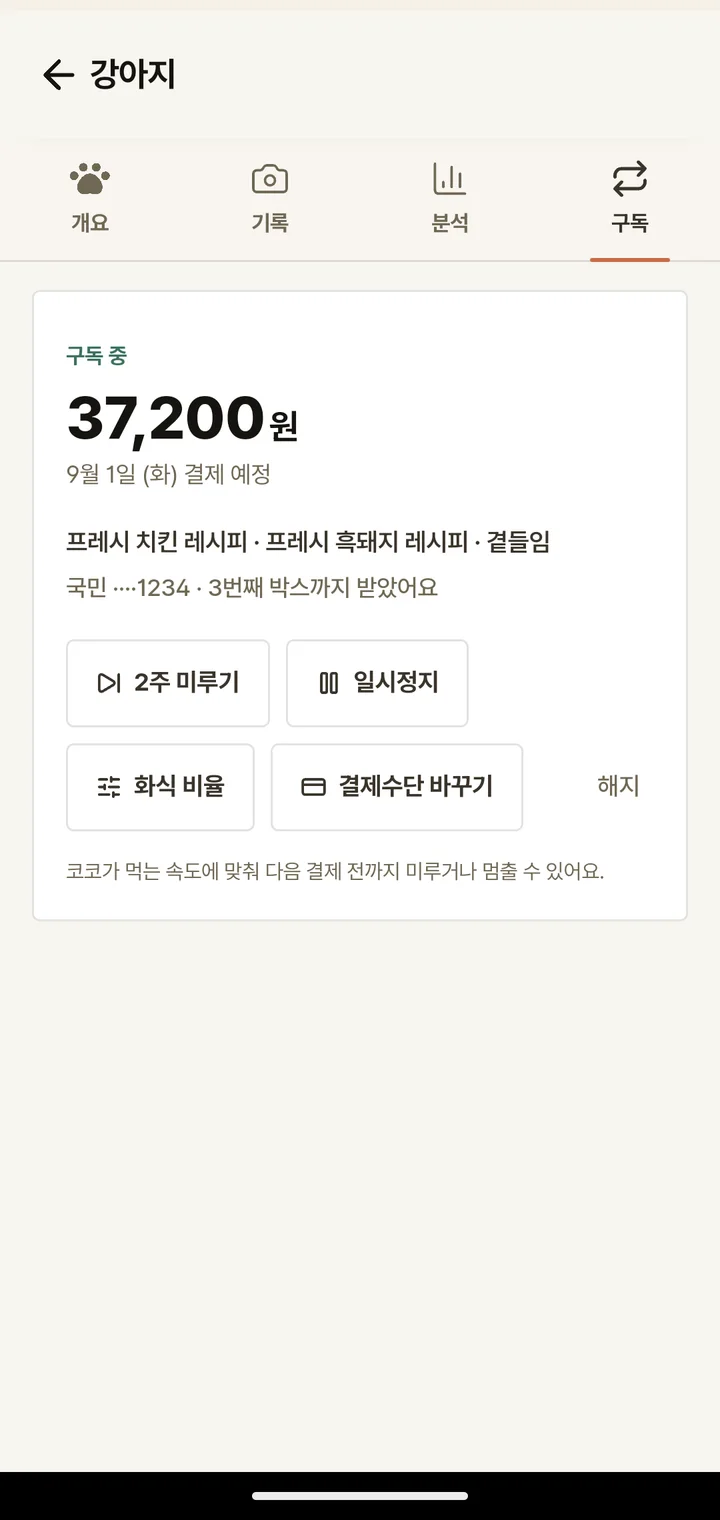
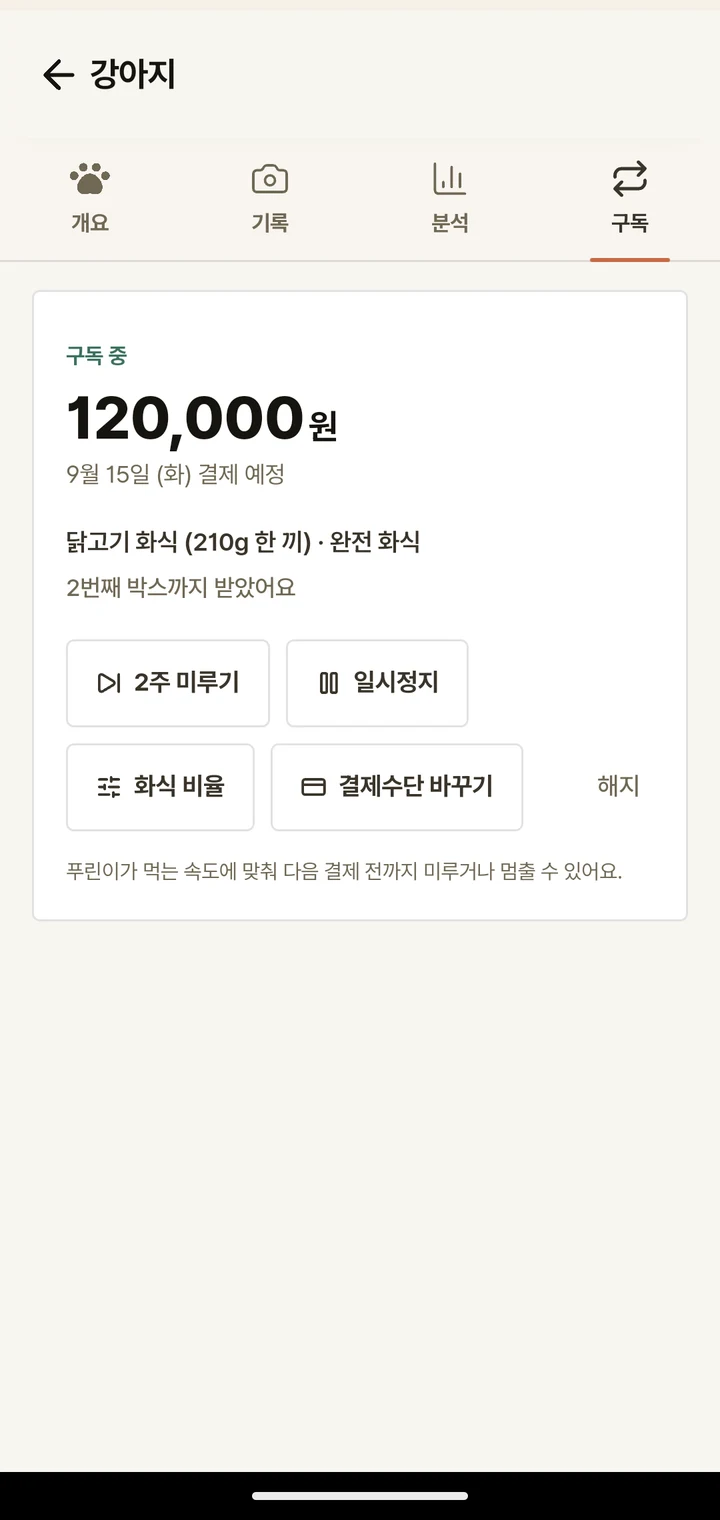
온보딩 자산 재촬영(푸린) + 배지 유리·아이콘 + 앱스토어 링크 복구
■ 앱스토어 배지가 안 보이던 것 (사장님 제보)
app-required 의 스토어 URL 이 NEXT_PUBLIC_* env 의존이었는데 iOS 출시(9/5)
후 프로덕션 env 에 값이 없어 **플레이스토어만** 떴다. NEXT_PUBLIC_* 은 빌드
시점에 박히므로 env 를 넣어도 재배포 전엔 안 뜬다 — 출시된 앱 주소는 바뀌지
않으니 코드에 기본값을 박아 의존을 없앴다(env 가 있으면 그쪽 우선).

■ 배지 = 반투명 유리 + 브랜드색 아이콘 (사장님 레퍼런스)
불투명 흰 카드는 스크린샷 위에 종이를 덧댄 것처럼 보였다. 배경이 비치게
rgba(255,255,255,0.74)+blur(14px) 로 바꾸고, 앞에 테라코타 라운드 사각 안
흰 lucide 아이콘을 세웠다(급여량=식기, 여러마리=발자국, 계산=저울, 기준=방패,
요약=달력, 저장=파일, 배송=트럭, 정지=일시정지).

■ 진료 보고서 저장 라벨
'브라우저에서 저장하기' → '저장하기'. 수단을 이름에 박은 문구였다 — 보호자가
원하는 건 저장이고, 브라우저를 거친다는 사정은 누른 뒤 안내가 이미 말한다.

■ 자산 4장 전부 재촬영 (푸린)
드라이브 사진을 얼굴 중심 정사각(640)으로 크롭해 storage 업로드, 데모견을
'푸린'·보호자 표기를 '푸린네'로 변경 후 홈/분석/진료보고서/구독 재촬영.
데이터가 바뀌어 헤드라인도 실제 값으로 갱신: 화식 65g→210g, 체중 4.2→4.3kg
(288kcal 는 그대로). 구독 화면은 데모 구독을 만들어 찍고 **즉시 삭제**했다 —
결제수단 없이 만들고 배송일을 미래(9/15)로 둬 청구 크론 대상에서 이중 제외,
금액은 임의값 금지 규칙대로 정본 quoteBox 로 계산(120,000원=210g×14팩).
삭제 검증 0건.

검증: tsc·eslint·테스트 1667 통과(규칙66 자산비율 포함), 4장 720x1520 동일
비율, 실렌더 확인.

Changed region(s): [[0.0917, 0.2474, 0.7639, 0.402], [0.0917, 0.5566, 0.8556, 0.5875]]

diff --git a/components/Onboarding.tsx b/components/Onboarding.tsx
@@ -7,7 +7,7 @@
  *   ① **채도 있는 그라데이션 배경** 위에 흰 헤드라인 — 예전의 베이지 배경 +
  *      흰 패널 조합은 전부 평평해 보였다.
  *   ② 큰 두 줄 헤드라인 — 조건줄 작고 연하게, 결과줄 크고 진하게. 결과줄은
- *      **구체적 숫자**를 말하고(화식 65g / 하루 288kcal) 스크린샷이 그걸 증명한다.
+ *      **구체적 숫자**를 말하고(화식 210g / 하루 288kcal) 스크린샷이 그걸 증명한다.
  *   ③ 폰이 아래로 잘려 나간다 — 여백 안에 얌전히 들어가면 작아 보인다.
  *   ④ 폰 가장자리에 걸친 **유리 카드** 배지. 알약(pill) 금지 — CTA 버튼과 같은
  *      옷이 되어 "버튼같이 설명하는 거"로 읽힌다(사장님 반려). 카드는 폰 밖으로
@@ -28,10 +28,30 @@
 
 import { useCallback, useEffect, useRef, useState } from 'react'
 import { useRouter } from 'next/navigation'
+import {
+  CalendarDays,
+  FileDown,
+  PauseCircle,
+  PawPrint,
+  Scale,
+  ShieldCheck,
+  Truck,
+  UtensilsCrossed,
+  type LucideIcon,
+} from 'lucide-react'
 import { markOnboarded } from '@/lib/onboarding'
 
-/** 폰 가장자리에 걸치는 유리 카드. top 은 **화면(스크린샷) 높이 기준 비율**. */
-type Badge = { text: string; side: 'left' | 'right'; top: string }
+/**
+ * 폰 가장자리에 걸치는 유리 카드. top 은 **화면(스크린샷) 높이 기준 비율**.
+ * icon 은 lucide 아이콘 — 브랜드색 원 안에 흰 아이콘으로 앞에 세운다
+ * (2026-09-08 사장님 레퍼런스: 반투명 카드 + 앞에 컬러 아이콘).
+ */
+type Badge = {
+  text: string
+  side: 'left' | 'right'
+  top: string
+  Icon: LucideIcon
+}
 
 type Slide = {
   shot: string
@@ -64,22 +84,22 @@ type Slide = {
 const SLIDES: Slide[] = [
   {
     shot: '/onboarding/app-home.webp',
-    lead: '오늘 코코가 먹을 양은',
-    punch: '화식 65g',
+    lead: '오늘 푸린이가 먹을 양은',
+    punch: '화식 210g',
     note: '먹일 양을 그램까지 계산하고, 그 양 그대로 소분 포장해 보내드려요',
     badges: [
-      { text: '오늘 급여량', side: 'left', top: '62%' },
-      { text: '여러 마리 관리', side: 'right', top: '27%' },
+      { text: '오늘 급여량', side: 'left', top: '62%', Icon: UtensilsCrossed },
+      { text: '여러 마리 관리', side: 'right', top: '27%', Icon: PawPrint },
     ],
   },
   {
     shot: '/onboarding/app-analysis.webp',
-    lead: '4.2kg 푸들 코코에게 필요한 건',
+    lead: '4.3kg 푸들 푸린이에게 필요한 건',
     punch: '하루 288kcal',
     note: '체형·건강·기호를 넣으면 필요 열량과 급여량을 그램 단위로 계산해요',
     badges: [
-      { text: '그램 단위 계산', side: 'right', top: '20%' },
-      { text: '국제 기준 충족', side: 'left', top: '72%' },
+      { text: '그램 단위 계산', side: 'right', top: '20%', Icon: Scale },
+      { text: '국제 기준 충족', side: 'left', top: '72%', Icon: ShieldCheck },
     ],
   },
   {
@@ -88,8 +108,8 @@ const SLIDES: Slide[] = [
     punch: '종이 한 장이면 끝',
     note: '12개월 체중 추이·식이·분석을 A4 한 장으로 정리해 드려요',
     badges: [
-      { text: '12개월 요약', side: 'left', top: '36%' },
-      { text: 'PDF 저장', side: 'right', top: '62%' },
+      { text: '12개월 요약', side: 'left', top: '36%', Icon: CalendarDays },
+      { text: 'PDF 저장', side: 'right', top: '62%', Icon: FileDown },
     ],
   },
   {
@@ -100,8 +120,8 @@ const SLIDES: Slide[] = [
     note: '봉지만 뜯어 그대로 주면 끝 — 계량도 남는 양 고민도 없어요',
     // 이 자산은 아래 절반이 비어 있다 — 배지를 그 자리에 내려 균형을 맞춘다.
     badges: [
-      { text: '배송일 변경', side: 'left', top: '58%' },
-      { text: '일시정지', side: 'right', top: '72%' },
+      { text: '배송일 변경', side: 'left', top: '58%', Icon: Truck },
+      { text: '일시정지', side: 'right', top: '72%', Icon: PauseCircle },
     ],
   },
 ]
@@ -494,22 +514,44 @@ function BadgeCard({ badge }: { badge: Badge }) {
         // 밖으로 잘린다. 32px 면 배지의 1/3 이 밖, 2/3 가 기기 위에 걸친다.
         ...(badge.side === 'left' ? { left: -(BEZEL + 32) } : { right: -(BEZEL + 32) }),
         zIndex: 3,
-        display: 'inline-block',
-        padding: '9px 14px',
-        borderRadius: 13,
-        background: 'rgba(255,255,255,0.97)',
-        border: '1px solid rgba(255,255,255,0.9)',
-        backdropFilter: 'blur(6px)',
-        WebkitBackdropFilter: 'blur(6px)',
+        // ★반투명 유리 + 앞에 브랜드색 아이콘(2026-09-08 사장님 레퍼런스).
+        //   불투명 흰 카드는 스크린샷 위에 종이를 덧댄 것처럼 보였다 — 살짝
+        //   비쳐야 "화면 위에 뜬 라벨"로 읽힌다. blur 를 크게 줘야 비침이
+        //   지저분해지지 않는다.
+        display: 'inline-flex',
+        alignItems: 'center',
+        gap: 7,
+        padding: '7px 13px 7px 7px',
+        borderRadius: 14,
+        background: 'rgba(255,255,255,0.74)',
+        border: '1px solid rgba(255,255,255,0.85)',
+        backdropFilter: 'blur(14px) saturate(140%)',
+        WebkitBackdropFilter: 'blur(14px) saturate(140%)',
         fontSize: 12,
         fontWeight: 800,
         letterSpacing: '-0.03em',
         whiteSpace: 'nowrap',
         color: 'var(--ink, #2A1F16)',
         boxShadow:
-          '0 18px 30px -14px rgba(48,14,3,0.6), 0 4px 10px -3px rgba(48,14,3,0.35)',
+          '0 18px 30px -14px rgba(48,14,3,0.55), 0 4px 10px -3px rgba(48,14,3,0.3)',
       }}
     >
+      <span
+        style={{
+          display: 'inline-flex',
+          alignItems: 'center',
+          justifyContent: 'center',
+          width: 24,
+          height: 24,
+          borderRadius: 8,
+          flexShrink: 0,
+          background: 'var(--terracotta, #C86B45)',
+          color: '#fff',
+          boxShadow: '0 4px 10px -3px rgba(200,107,69,0.7)',
+        }}
+      >
+        <badge.Icon size={14} strokeWidth={2.6} />
+      </span>
       {badge.text}
     </span>
   )

diff --git a/app/app-required/page.tsx b/app/app-required/page.tsx
@@ -20,9 +20,21 @@ type SearchParams = Promise<{ from?: string }>
  *
  * 디자인: 마케팅 + 파머스독(FD) 톤. 강한 다운로드 CTA + 앱이 무엇을 주는지 짧게.
  */
-/** 스토어 URL — 출시 전에는 비어 있고, 그때는 배지를 아예 안 그린다. */
-const IOS_URL = process.env.NEXT_PUBLIC_IOS_APP_URL ?? ''
-const ANDROID_URL = process.env.NEXT_PUBLIC_ANDROID_APP_URL ?? ''
+/**
+ * 스토어 URL — **두 앱 모두 출시됐으므로 코드에 박는다**(2026-09-08 사장님 제보:
+ * "플레이스토어만 보이고 앱스토어가 없다").
+ *
+ * 예전엔 출시 전이라 env 로 두고 값이 없으면 배지를 숨겼는데, iOS 출시(9/5) 후
+ * `NEXT_PUBLIC_IOS_APP_URL` 이 **프로덕션 env 에 없어서 앱스토어 배지만 계속
+ * 빠져 있었다**. NEXT_PUBLIC_* 은 빌드 시점에 박히므로 env 를 넣어도 재배포
+ * 전까지는 안 뜬다 — 출시된 앱의 주소는 바뀔 일이 없으니 이 의존을 없앤다.
+ * env 가 있으면 그걸 우선(스테이징 등에서 덮어쓸 여지는 남김).
+ */
+const IOS_URL =
+  process.env.NEXT_PUBLIC_IOS_APP_URL ?? 'https://apps.apple.com/kr/app/id6807279982'
+const ANDROID_URL =
+  process.env.NEXT_PUBLIC_ANDROID_APP_URL ??
+  'https://play.google.com/store/apps/details?id=com.farmerstail.app'
 
 export default async function AppRequiredPage({
   searchParams,

diff --git a/app/(main)/dogs/[id]/vet-report/VetReportPrintButton.tsx b/app/(main)/dogs/[id]/vet-report/VetReportPrintButton.tsx
@@ -71,8 +71,12 @@ export default function VetReportPrintButton() {
           </>
         ) : inApp ? (
           <>
+            {/* ★라벨은 그냥 '저장하기'(2026-09-08 사장님). '브라우저에서 저장하기'
+                는 **수단**을 이름에 박은 문구다 — 보호자가 원하는 건 저장이고,
+                브라우저를 거친다는 사정은 눌렀을 때 안내로 알려주면 된다.
+                (아래 hint 가 그 역할을 이미 한다.) */}
             <Copy className="w-3.5 h-3.5" strokeWidth={2.5} />
-            브라우저에서 저장하기
+            저장하기
           </>
         ) : (
           <>
